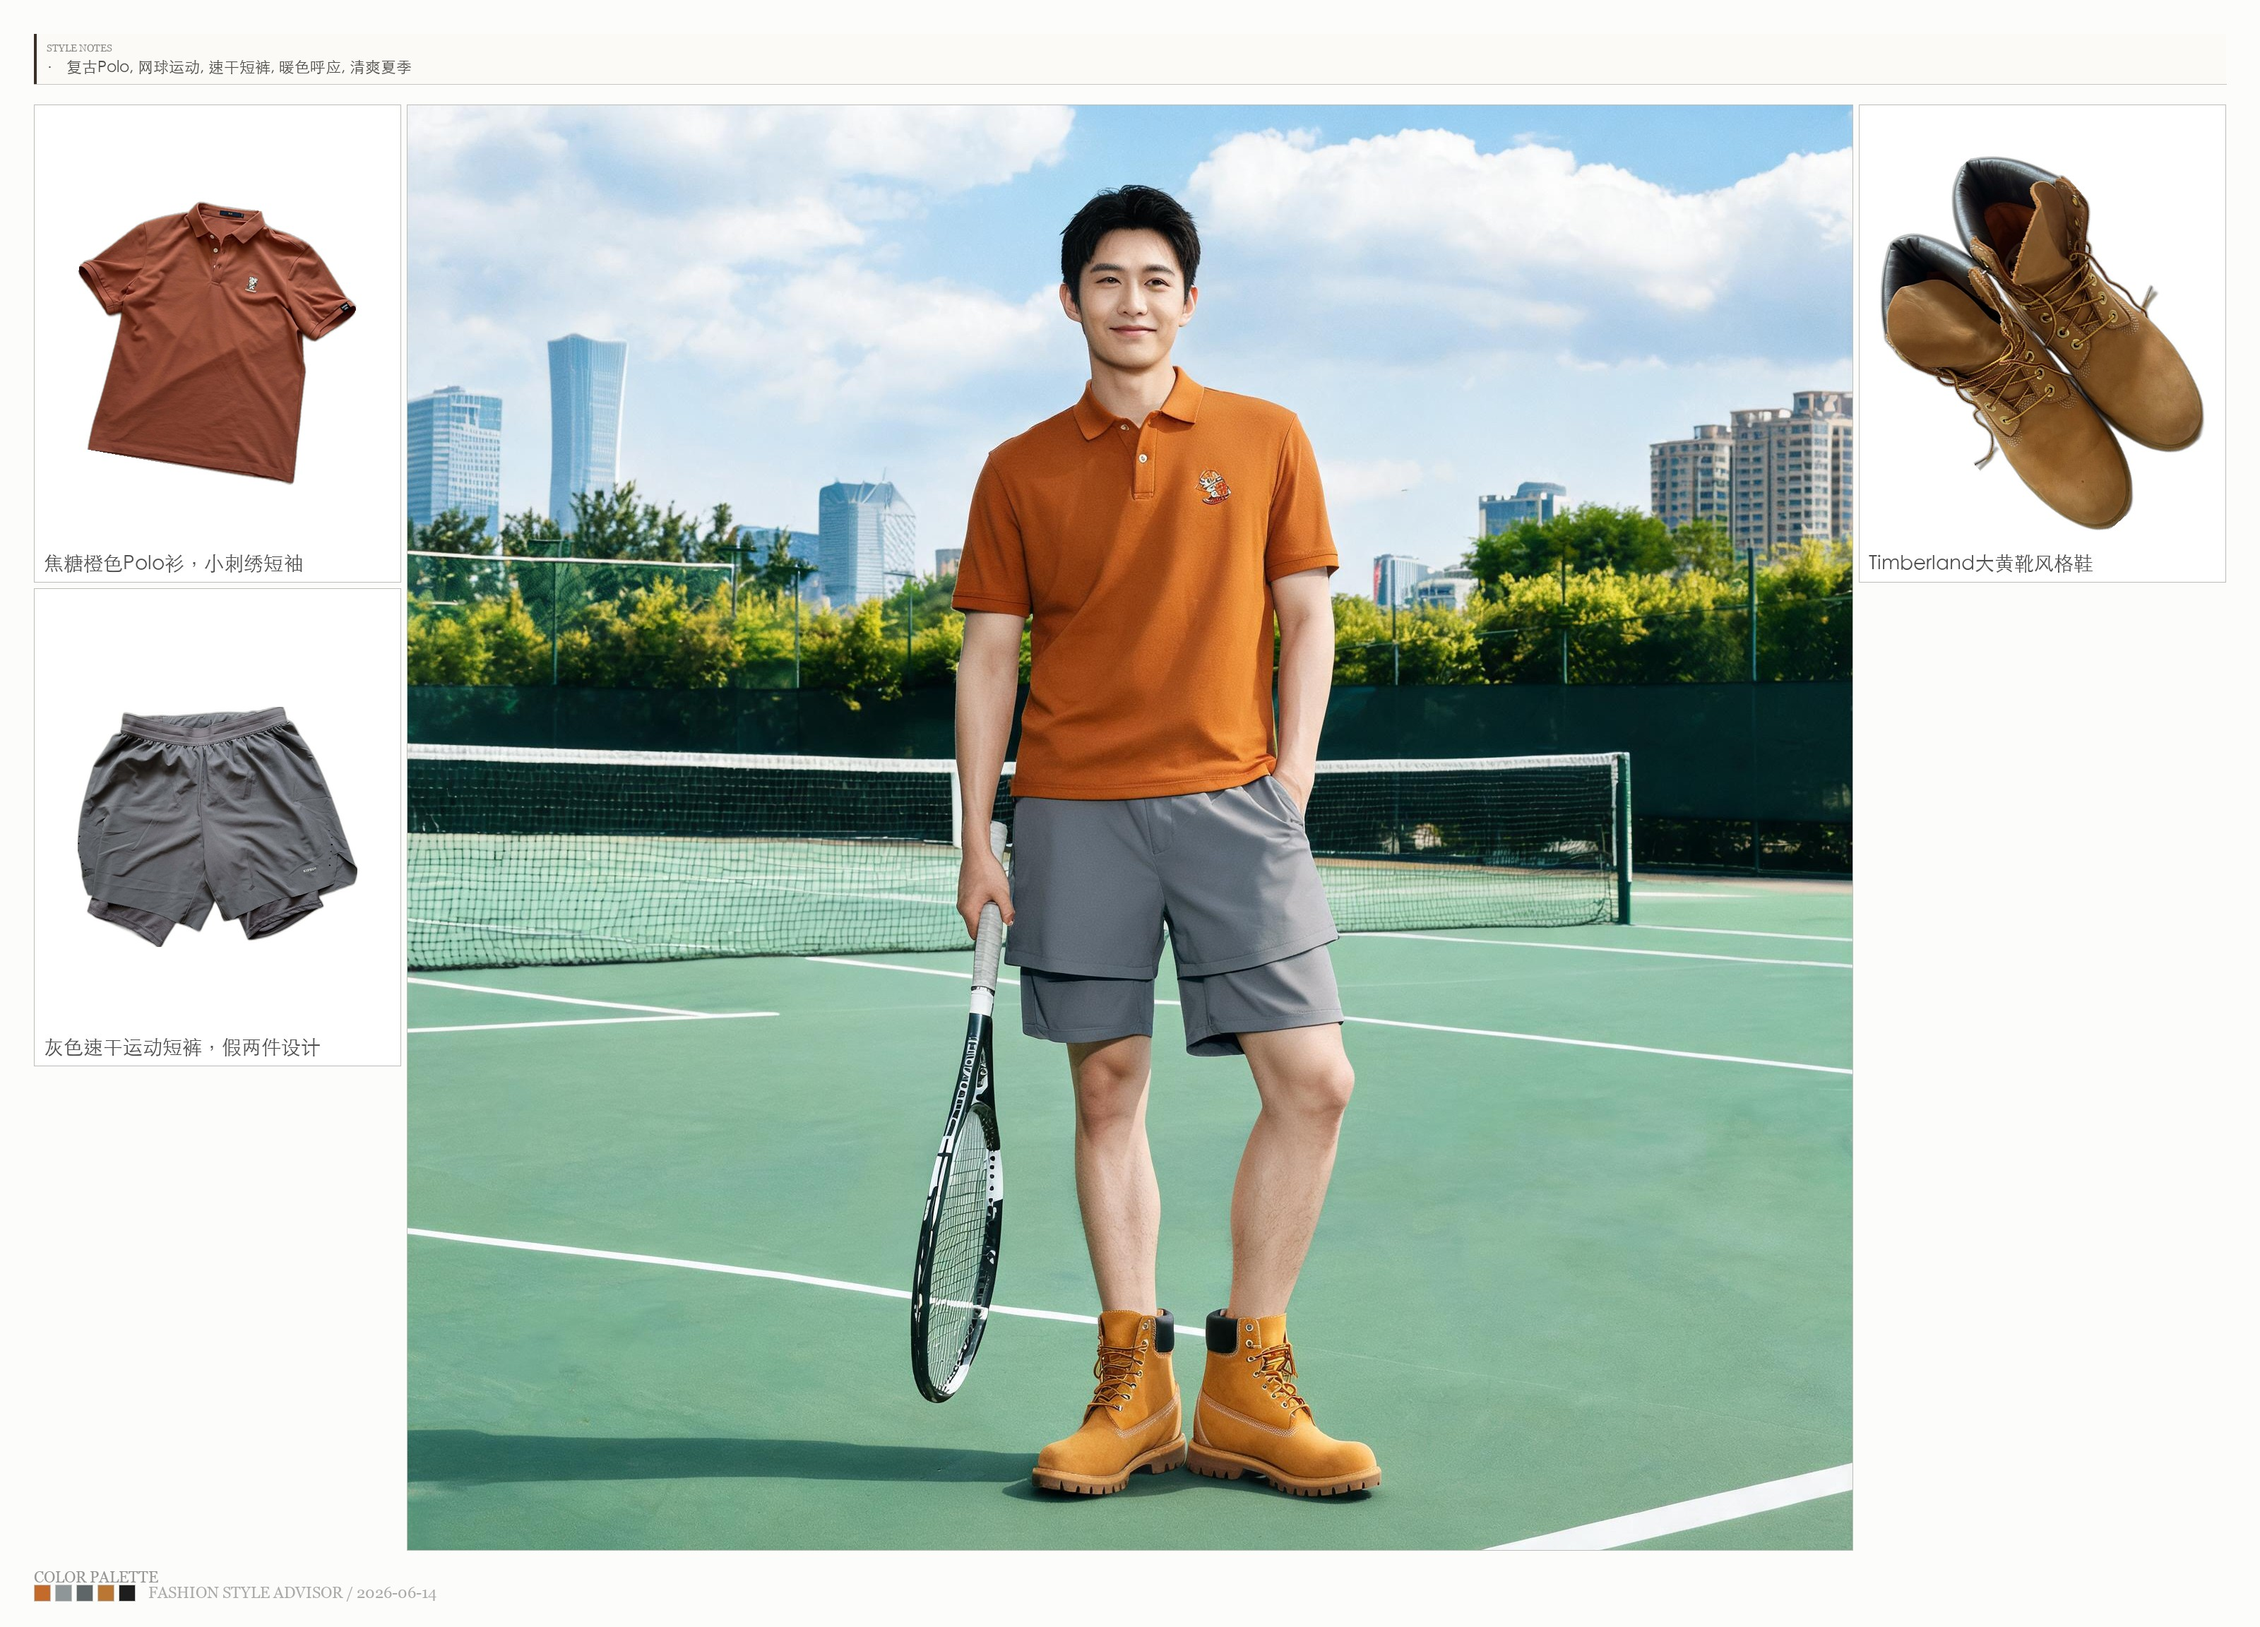
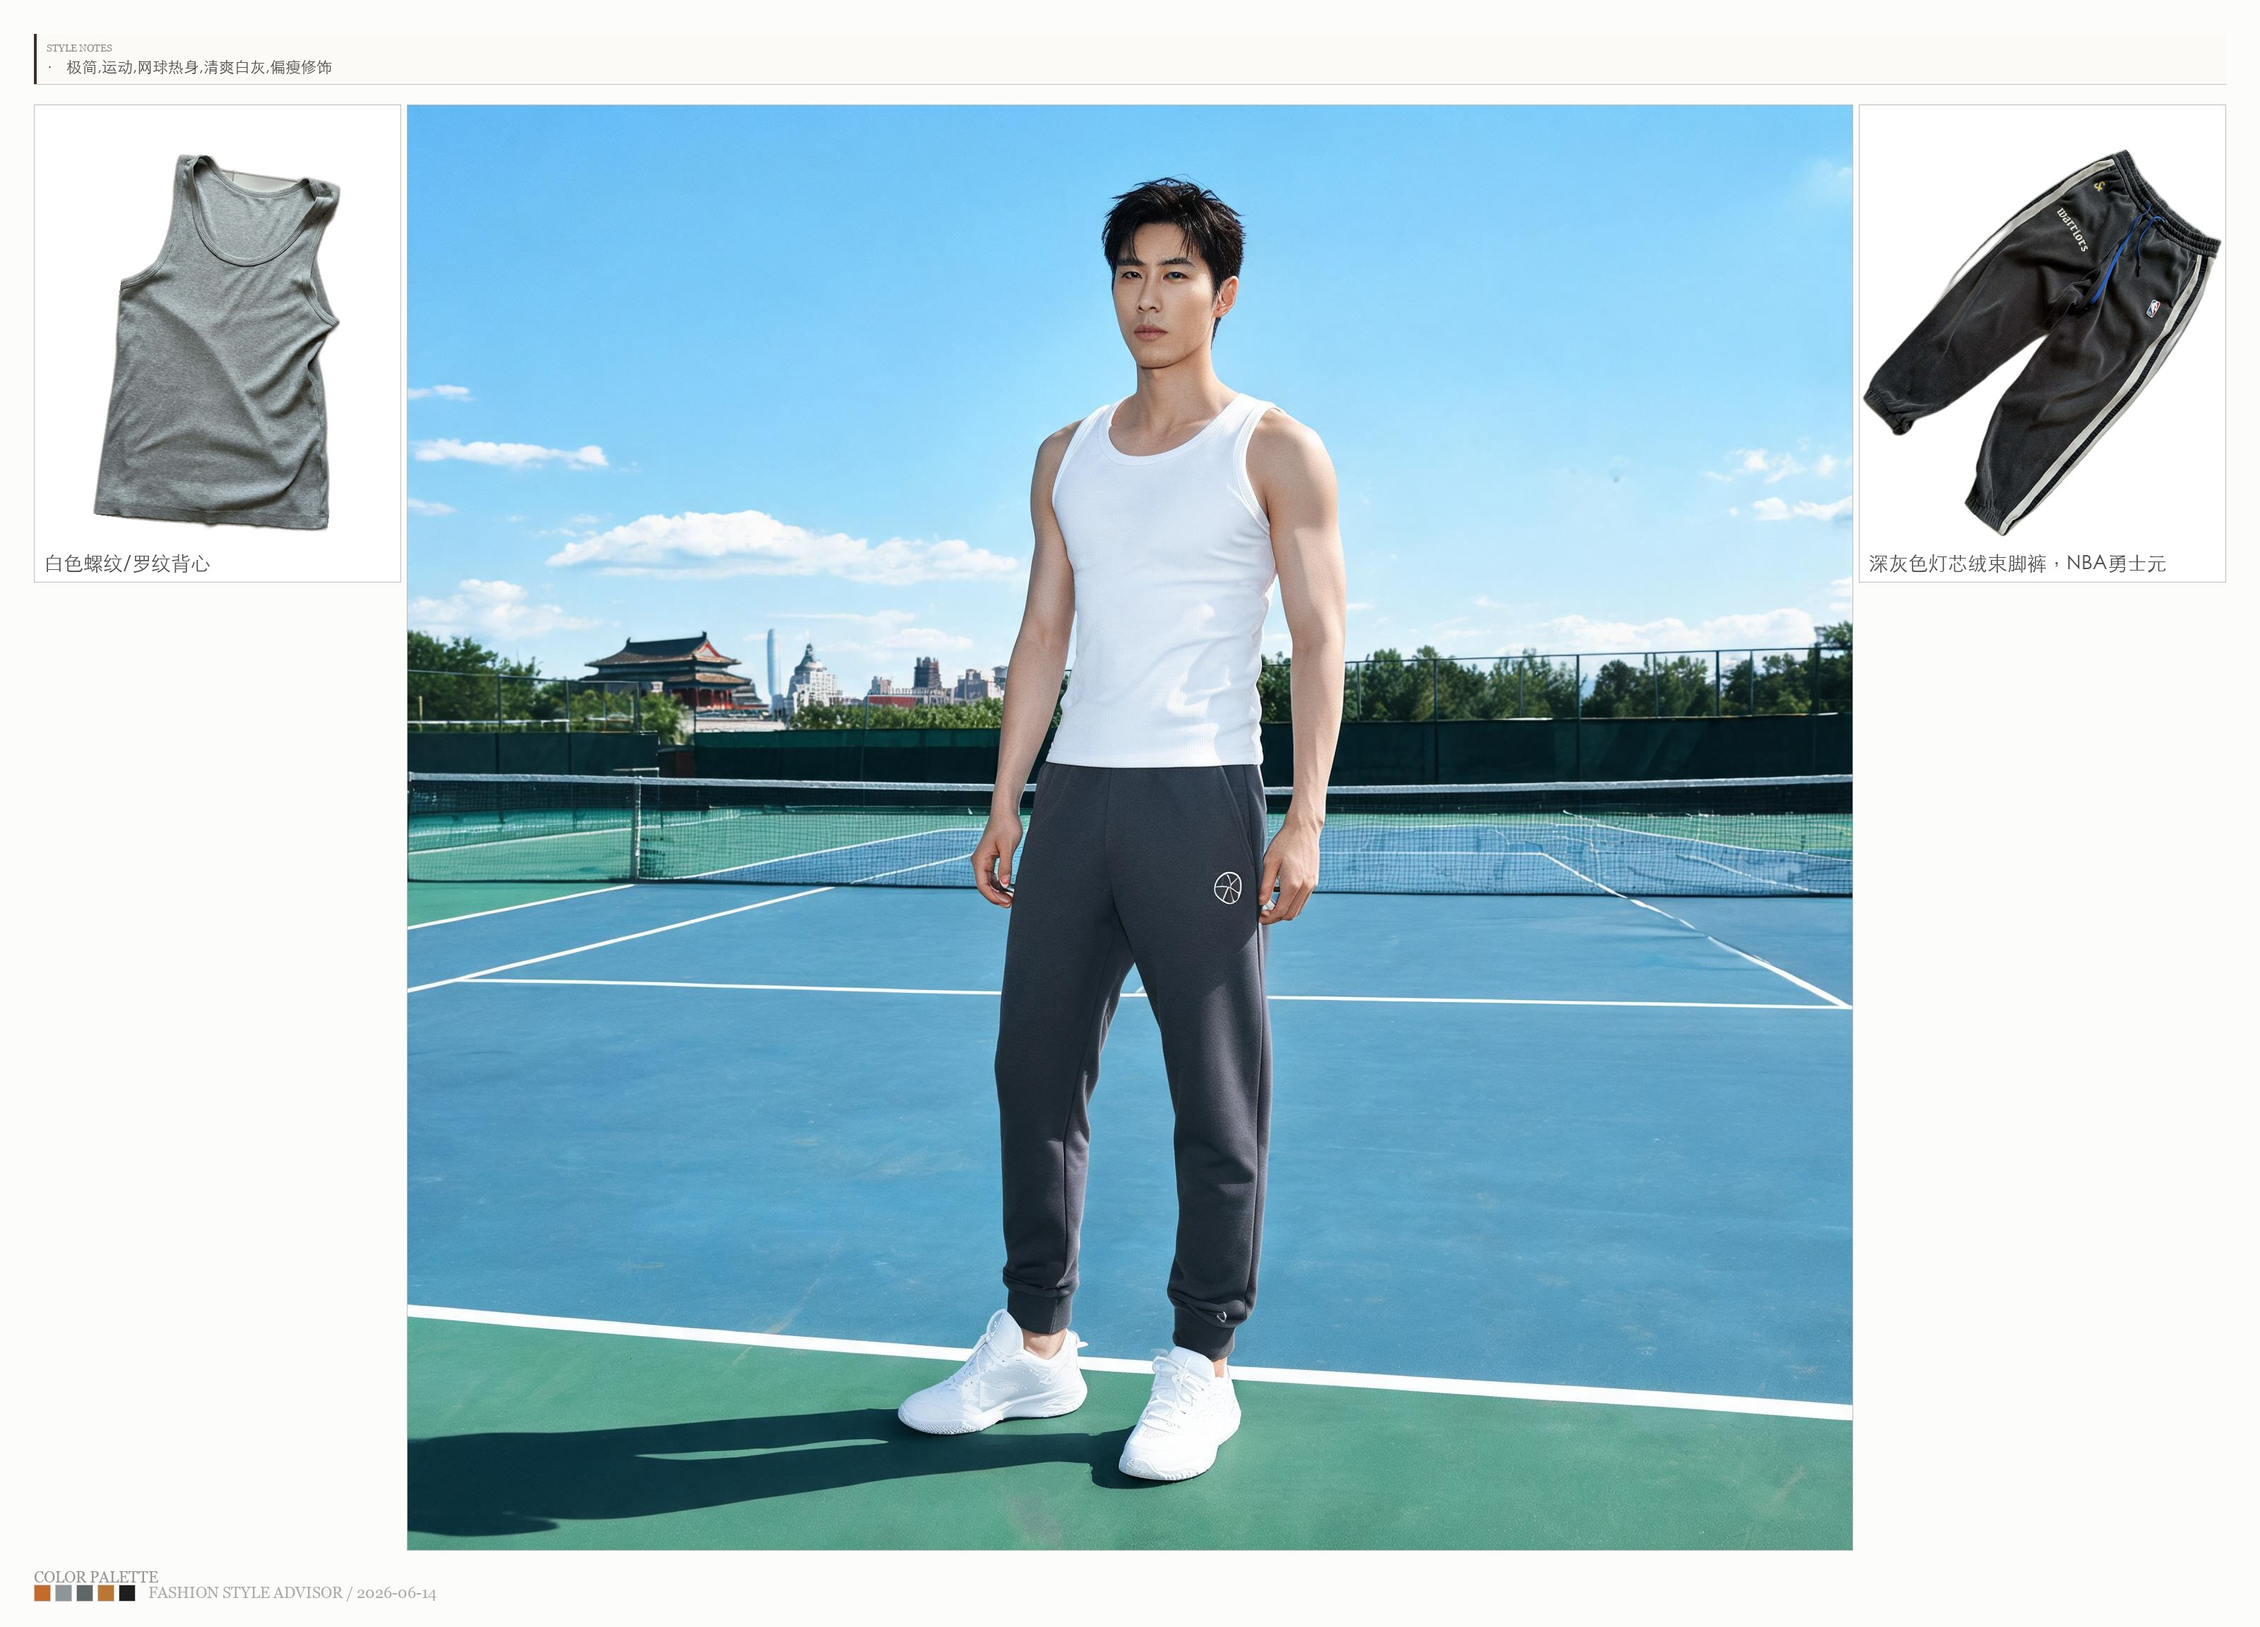
🎨 打网球穿搭 — 远程操控

diff --git a/outfits/2026-06-14_打网球穿搭/outfit.md b/outfits/2026-06-14_打网球穿搭/outfit.md
@@ -1,8 +1,8 @@
 ---
 date: 2026-06-14
 scene: 打网球穿搭
-weather: 北京6月中旬晴/多云，22-34°C，午后炎热且日晒强，适合短袖、速干短裤，注意补水防晒。
-style: 复古网球运动混搭风
+weather: 北京6月中旬晴/多云，22-34°C，日晒强、体感炎热，户外网球需轻薄透气并注意补水防晒。
+style: 极简热身网球运动风
 ---
 
 # 2026-06-14 打网球穿搭
@@ -11,18 +11,18 @@ style: 复古网球运动混搭风
 
 | 品类 | ID | 单品 | 颜色 |
 |------|-----|------|------|
-| 上衣 | **TS-001** | 焦糖橙色Polo衫，小刺绣短袖 | 橙色/焦糖色 |
-| 下装 | **SH-003** | 灰色速干运动短裤，假两件设计 | 灰色 |
-| 鞋子 | **SHOE-007** | Timberland大黄靴风格鞋 | 黄色/小麦色 |
+| 上衣 | **TANK-002** | 白色螺纹/罗纹背心 | 白色 |
+| 下装 | **PT-003** | 深灰色灯芯绒束脚裤，NBA勇士元素 | 深灰色 |
+| 鞋子 | **NO-SHOE-AVAILABLE** | 衣柜中今日无未使用鞋子，建议临时另备白色专业网球鞋 | 白色 |
 
 ## 搭配理由
 
-TS-001的Polo领自带网球复古感，焦糖橙能提亮偏白肤色，小刺绣增加胸前细节；SH-003速干假两件短裤利于跑动和排汗，灰色中和上衣暖色，整体不显单薄。SHOE-007作为唯一未使用鞋款保持全新不重复，但正式强对抗建议另备专业网球鞋保护脚踝。
+已避开今日所有已使用ID；衣柜中未使用运动短裤和鞋子不足，因此选择白色背心保证散热与肩臂活动，搭配PT-003束脚裤作为低强度热身方案。深灰下装增加下半身量感，修饰偏瘦身形；正式上场建议换专业网球鞋并控制运动时长。
 
 ## 配色逻辑
 
-焦糖橙上衣与小麦黄鞋形成暖色呼应，灰色短裤作为中性色过渡，降低高饱和感，让运动造型更干净。
+白色上衣降低热感并提亮肤色，深灰下装压住视觉重心，白色网球鞋形成上下呼应，整体干净运动。
 
 ## 风格关键词
 
-复古Polo, 网球运动, 速干短裤, 暖色呼应, 清爽夏季
+极简,运动,网球热身,清爽白灰,偏瘦修饰
